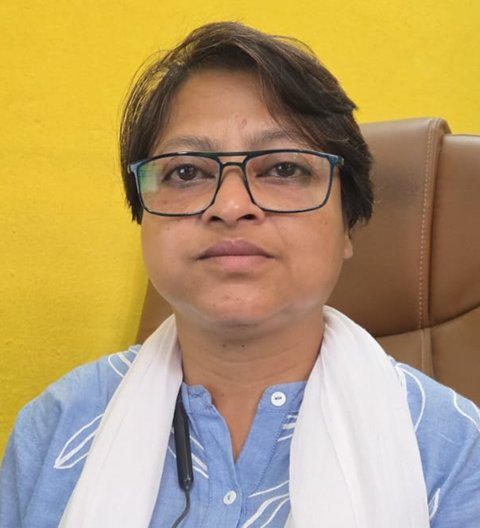
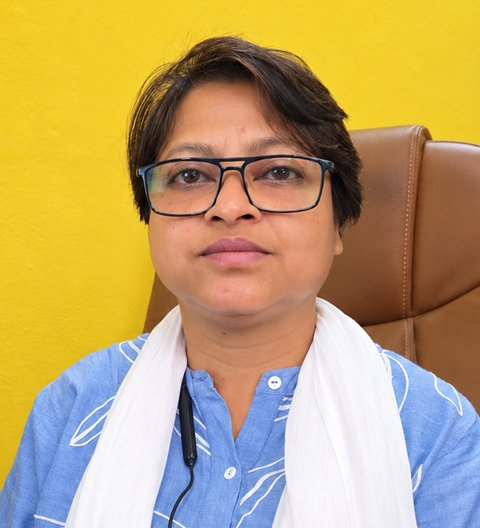
feat: realign Dipashree portrait, dock scroll-top in new footer, flat glass header buttons

diff --git a/src/styles/global.css b/src/styles/global.css
@@ -2103,3 +2103,10 @@ header.site.scrolled nav.main li.has-sub > a[aria-current="page"] { padding-righ
 header.site nav.main li.nav-administration > a[aria-current="page"], header.site nav.main li.nav-clean-mirik > a[aria-current="page"],
 header.site.scrolled nav.main li.nav-administration > a[aria-current="page"], header.site.scrolled nav.main li.nav-clean-mirik > a[aria-current="page"] { padding-right: 12px; }
 html { scrollbar-gutter: stable; }
+
+/* Header Emergency Call + Grievance buttons: keep the glass look (translucent fill, blur, light edge), but flat colours, no gradient */
+header.site .sos-btn, header.site .cta-btn { background-image: none; }
+header.site .sos-btn { background-color: color-mix(in srgb, var(--alert) 82%, transparent); }
+header.site .sos-btn:hover { background-color: color-mix(in srgb, var(--alert) 96%, transparent); }
+header.site .cta-btn { background-color: color-mix(in srgb, var(--green-deep) 82%, transparent); }
+header.site .cta-btn:hover { background-color: color-mix(in srgb, var(--green-deep) 96%, transparent); }
